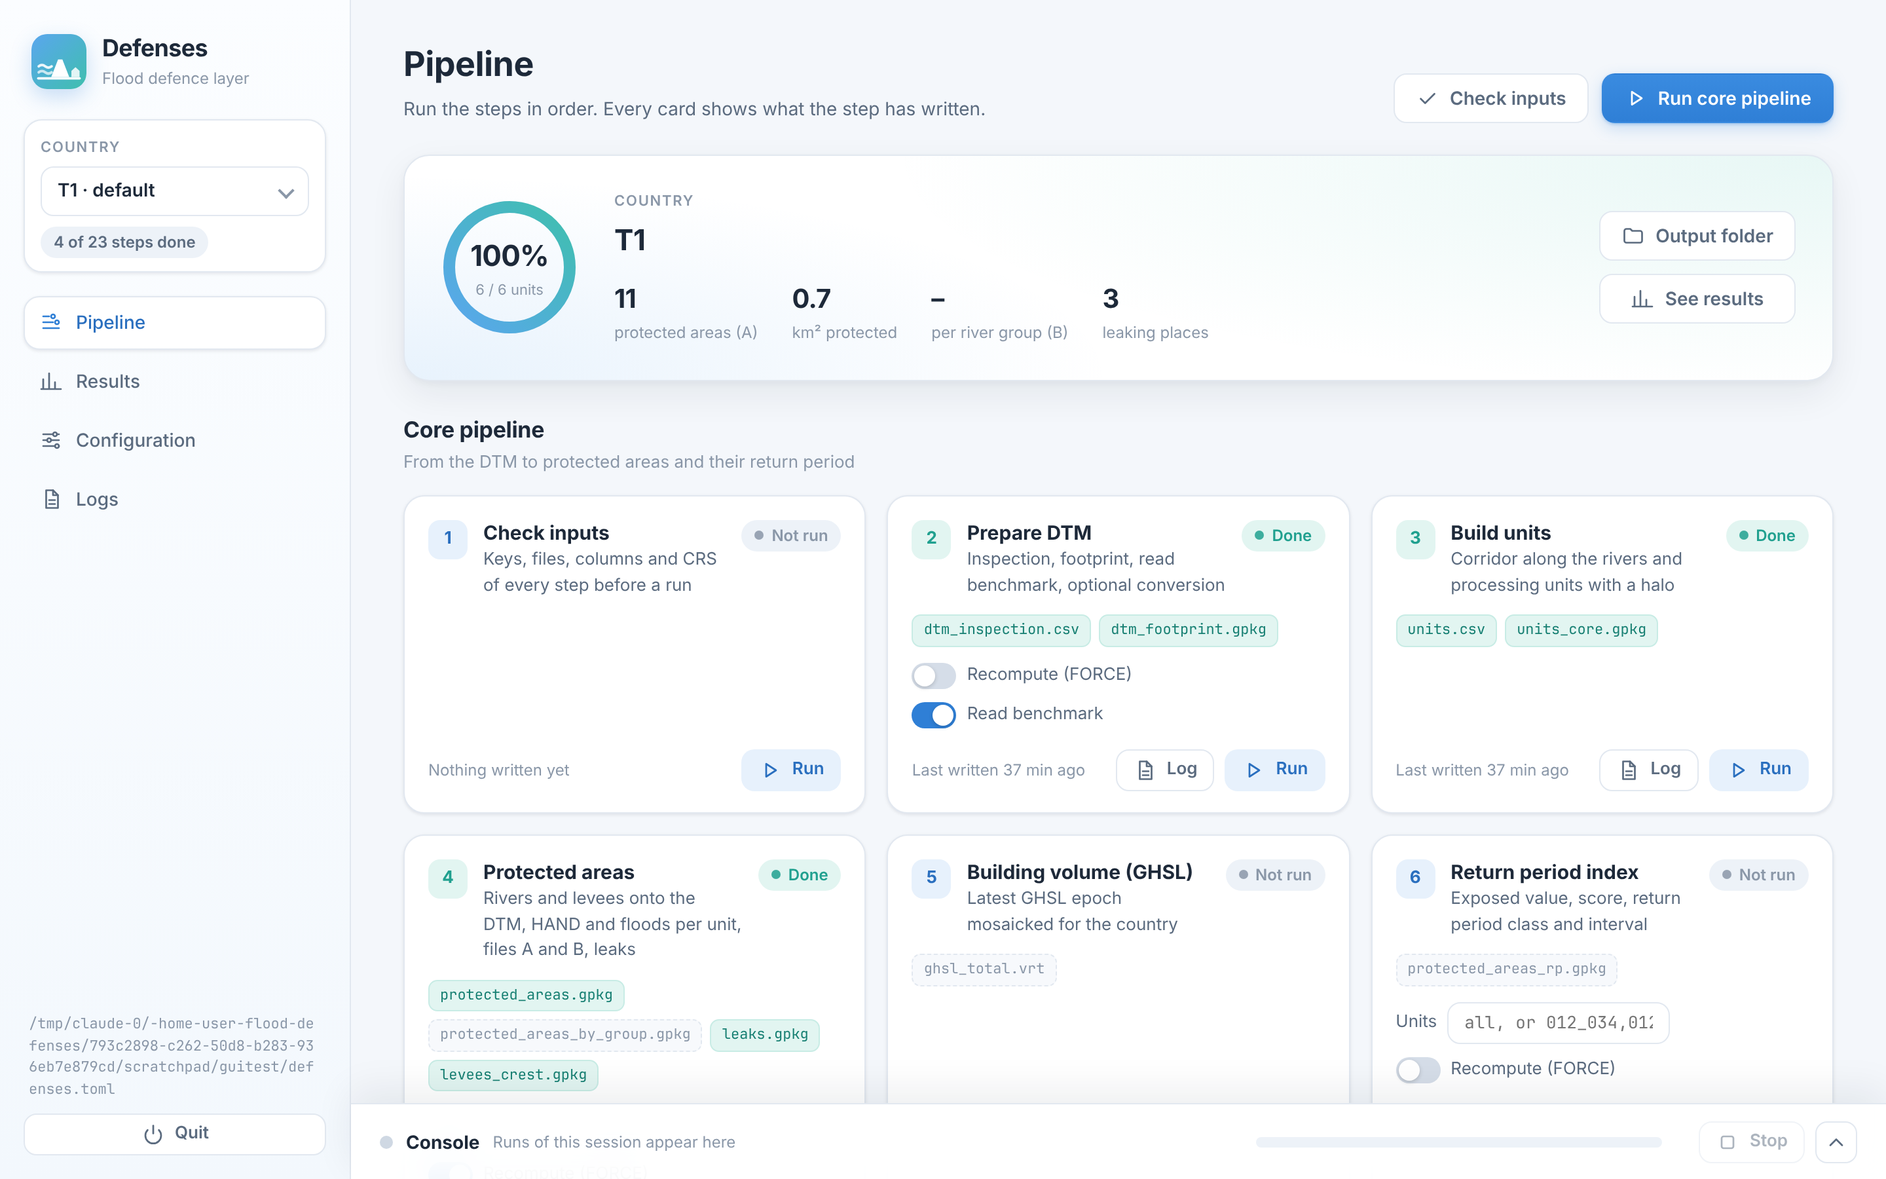
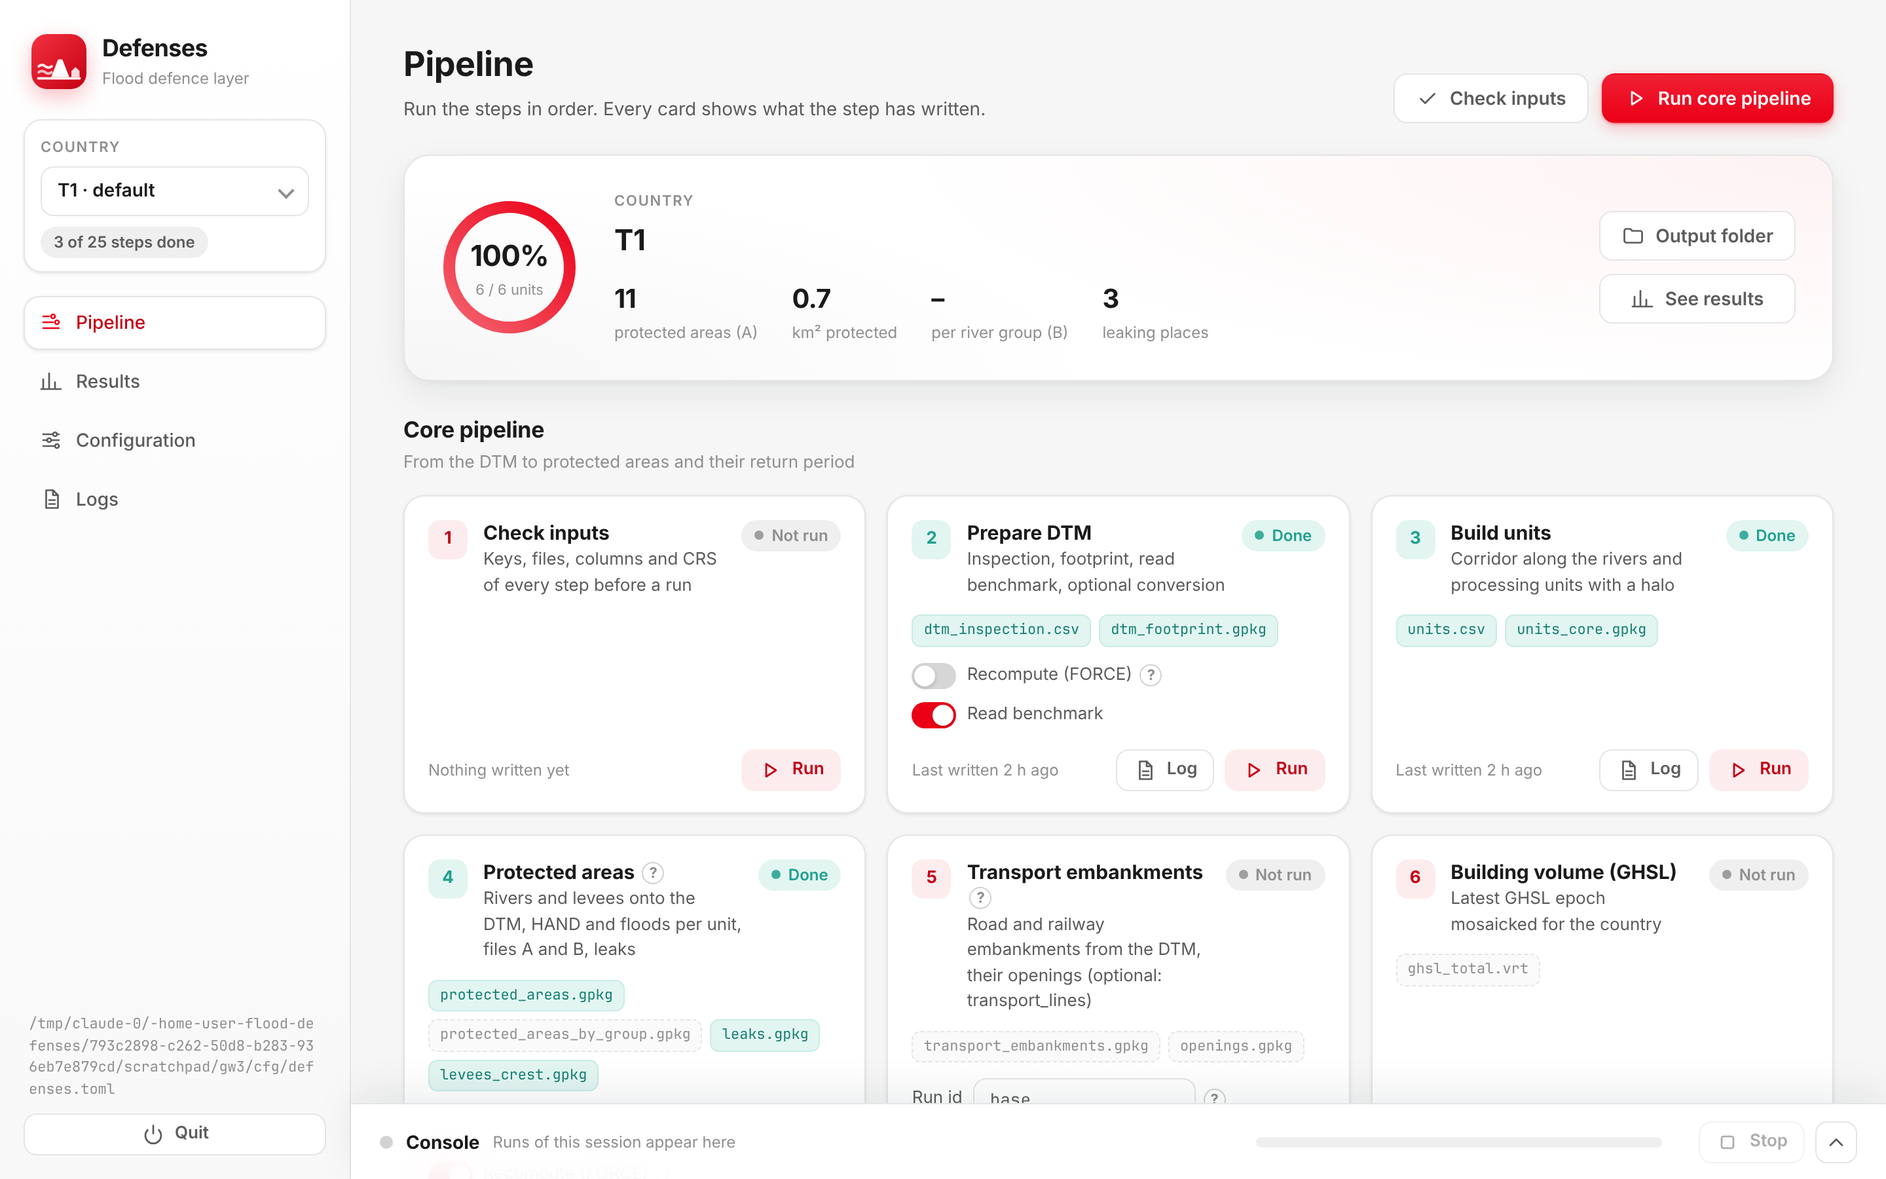
GUI in Aon colours: red accent, black, white and greys in light tints
Running status neutral (charcoal with a red dot), failures in dark maroon, so that the
brand red does not read as an error; logo recoloured; screenshots of the README updated.

diff --git a/gui/static/style.css b/gui/static/style.css
@@ -1,28 +1,28 @@
 /* Author: Jakub Zapletal */
 /* Date: 2026-11-12 */
-/* Style of the Defenses GUI: light, calm colours of water and land. */
+/* Style of the Defenses GUI: Aon colours (red #EB0017, black, white, greys) in light tints. */
 
 :root {
-  --bg: #f4f7fb;
-  --bg-2: #edf2f8;
+  --bg: #f6f6f6;
+  --bg-2: #efefef;
   --surface: #ffffff;
-  --surface-2: #f7f9fc;
-  --border: #e2e8f0;
-  --border-strong: #cfd8e3;
-  --text: #1d2939;
-  --text-2: #5b6b7f;
-  --text-3: #8a97a8;
-  --accent: #2f7fd6;
-  --accent-2: #2a6fbf;
-  --accent-soft: #e7f1fc;
+  --surface-2: #fafafa;
+  --border: #e5e5e5;
+  --border-strong: #d2d2d2;
+  --text: #1a1a1a;
+  --text-2: #5c5c5c;
+  --text-3: #8f8f8f;
+  --accent: #eb0017;
+  --accent-2: #c40014;
+  --accent-soft: #fdecee;
   --teal: #20a08f;
   --teal-soft: #e2f5f1;
   --amber: #c9861f;
   --amber-soft: #fcf3e2;
-  --coral: #d65a52;
-  --coral-soft: #fdecea;
-  --violet: #7a68d6;
-  --violet-soft: #efecfc;
+  --coral: #8a1220;
+  --coral-soft: #f6e3e5;
+  --violet: #5c5c5c;
+  --violet-soft: #efefef;
   --shadow-1: 0 1px 2px rgba(16, 24, 40, 0.04), 0 1px 3px rgba(16, 24, 40, 0.06);
   --shadow-2: 0 2px 6px rgba(16, 24, 40, 0.04), 0 10px 28px rgba(16, 24, 40, 0.07);
   --radius: 16px;
@@ -53,7 +53,7 @@ h1, h2, h3 { margin: 0; font-weight: 650; letter-spacing: -0.01em; }
   position: fixed; inset: 0 auto 0 0; width: var(--sidebar);
   display: flex; flex-direction: column; gap: 18px;
   padding: 22px 18px 18px;
-  background: linear-gradient(180deg, #fbfdff 0%, #f3f8fd 100%);
+  background: linear-gradient(180deg, #ffffff 0%, #f8f8f8 100%);
   border-right: 1px solid var(--border);
   z-index: 5;
 }
@@ -62,7 +62,7 @@ h1, h2, h3 { margin: 0; font-weight: 650; letter-spacing: -0.01em; }
   padding: 30px 40px calc(var(--console-h) + 40px);
 }
 .brand { display: flex; align-items: center; gap: 12px; padding: 2px 6px 4px; }
-.brand-logo { width: 42px; height: 42px; border-radius: 12px; box-shadow: 0 6px 16px rgba(47, 127, 214, 0.25); }
+.brand-logo { width: 42px; height: 42px; border-radius: 12px; box-shadow: 0 6px 16px rgba(235, 0, 23, 0.25); }
 .brand-name { font-size: 18px; font-weight: 700; letter-spacing: -0.02em; }
 .brand-sub { font-size: 12px; color: var(--text-3); }
 
@@ -80,7 +80,7 @@ h1, h2, h3 { margin: 0; font-weight: 650; letter-spacing: -0.01em; }
   color: var(--text-2); font-weight: 550;
   transition: background 0.15s, color 0.15s;
 }
-.nav a:hover { background: #eaf2fb; color: var(--text); }
+.nav a:hover { background: #fdf1f2; color: var(--text); }
 .nav a.active { background: var(--surface); color: var(--accent-2); box-shadow: var(--shadow-1); border: 1px solid var(--border); padding: 9px 11px; }
 .nav a.active .ico { color: var(--accent); }
 .sidebar-foot { margin-top: auto; display: flex; flex-direction: column; gap: 10px; }
@@ -106,10 +106,10 @@ h1, h2, h3 { margin: 0; font-weight: 650; letter-spacing: -0.01em; }
   white-space: nowrap;
 }
 .btn:active { transform: translateY(1px); }
-.btn.primary { background: linear-gradient(180deg, #3a8be0, var(--accent)); color: #fff; box-shadow: 0 1px 2px rgba(47, 127, 214, 0.3), 0 4px 12px rgba(47, 127, 214, 0.22); }
-.btn.primary:hover { background: linear-gradient(180deg, #3584d9, var(--accent-2)); }
+.btn.primary { background: linear-gradient(180deg, #f01f33, var(--accent)); color: #fff; box-shadow: 0 1px 2px rgba(235, 0, 23, 0.3), 0 4px 12px rgba(235, 0, 23, 0.22); }
+.btn.primary:hover { background: linear-gradient(180deg, #d90015, var(--accent-2)); }
 .btn.soft { background: var(--accent-soft); color: var(--accent-2); }
-.btn.soft:hover { background: #dbeafb; }
+.btn.soft:hover { background: #fbdfe2; }
 .btn.ghost { background: var(--surface); border-color: var(--border); color: var(--text-2); }
 .btn.ghost:hover { border-color: var(--border-strong); color: var(--text); }
 .btn.danger { background: var(--coral-soft); color: var(--coral); }
@@ -128,7 +128,9 @@ h1, h2, h3 { margin: 0; font-weight: 650; letter-spacing: -0.01em; }
 .chip::before { content: ""; width: 7px; height: 7px; border-radius: 50%; background: currentColor; opacity: 0.85; }
 .chip.plain::before { display: none; }
 .chip.done { background: var(--teal-soft); color: var(--teal); }
-.chip.running, .chip.stopping { background: var(--accent-soft); color: var(--accent); }
+/* running is neutral (charcoal with a red dot): red text would read as an error */
+.chip.running, .chip.stopping { background: #ededed; color: #262626; }
+.chip.running::before { background: var(--accent); opacity: 1; }
 .chip.running::before { animation: blink 1.2s infinite; }
 .chip.queued { background: var(--violet-soft); color: var(--violet); }
 .chip.failed { background: var(--coral-soft); color: var(--coral); }
@@ -151,8 +153,8 @@ h1, h2, h3 { margin: 0; font-weight: 650; letter-spacing: -0.01em; }
   display: grid; grid-template-columns: auto 1fr auto; align-items: center; gap: 28px;
   padding: 26px 28px; border-radius: 20px;
   background:
-    radial-gradient(1200px 300px at 100% 0%, rgba(63, 191, 174, 0.12), transparent 60%),
-    radial-gradient(900px 260px at 0% 100%, rgba(90, 166, 238, 0.14), transparent 60%),
+    radial-gradient(1200px 300px at 100% 0%, rgba(235, 0, 23, 0.05), transparent 60%),
+    radial-gradient(900px 260px at 0% 100%, rgba(0, 0, 0, 0.035), transparent 60%),
     var(--surface);
   border: 1px solid var(--border); box-shadow: var(--shadow-2);
 }
@@ -177,7 +179,7 @@ h1, h2, h3 { margin: 0; font-weight: 650; letter-spacing: -0.01em; }
   transition: box-shadow 0.2s, border-color 0.2s, transform 0.2s;
 }
 .step:hover { box-shadow: var(--shadow-2); border-color: var(--border-strong); }
-.step.is-running { border-color: #b9d6f5; box-shadow: 0 0 0 3px rgba(47, 127, 214, 0.1), var(--shadow-2); }
+.step.is-running { border-color: #f5b8be; box-shadow: 0 0 0 3px rgba(235, 0, 23, 0.1), var(--shadow-2); }
 .step-head { display: flex; align-items: flex-start; gap: 12px; }
 .step-num {
   flex: none; width: 30px; height: 30px; border-radius: 9px;
@@ -210,7 +212,7 @@ h1, h2, h3 { margin: 0; font-weight: 650; letter-spacing: -0.01em; }
   transition: border-color 0.15s, box-shadow 0.15s;
 }
 .input.small { height: 32px; font-size: 13px; }
-.input:focus, select:focus, textarea:focus { border-color: #9cc4ef; box-shadow: 0 0 0 3px rgba(47, 127, 214, 0.12); }
+.input:focus, select:focus, textarea:focus { border-color: #f3a3ab; box-shadow: 0 0 0 3px rgba(235, 0, 23, 0.12); }
 .mono { font-family: var(--mono); font-size: 12.5px; }
 .select-wrap { position: relative; }
 select { appearance: none; padding-right: 34px; cursor: pointer; font-weight: 600; }
@@ -221,7 +223,7 @@ select { appearance: none; padding-right: 34px; cursor: pointer; font-weight: 60
 textarea { height: auto; padding: 14px 16px; resize: vertical; line-height: 1.6; }
 .switch { display: inline-flex; align-items: center; gap: 8px; cursor: pointer; font-size: 13px; color: var(--text-2); user-select: none; }
 .switch input { display: none; }
-.switch .track { width: 34px; height: 20px; border-radius: 999px; background: #d5dde8; position: relative; transition: background 0.15s; }
+.switch .track { width: 34px; height: 20px; border-radius: 999px; background: #d6d6d6; position: relative; transition: background 0.15s; }
 .switch .track::after { content: ""; position: absolute; top: 2px; left: 2px; width: 16px; height: 16px; border-radius: 50%; background: #fff; box-shadow: 0 1px 3px rgba(0, 0, 0, 0.18); transition: transform 0.18s; }
 .switch input:checked + .track { background: var(--accent); }
 .switch input:checked + .track::after { transform: translateX(14px); }
@@ -257,13 +259,13 @@ textarea { height: auto; padding: 14px 16px; resize: vertical; line-height: 1.6;
 .bar-row .name b { display: block; font-size: 13px; }
 .bar-row .name span { font-size: 12px; color: var(--text-3); }
 .track-h { height: 10px; border-radius: 999px; background: var(--bg-2); overflow: hidden; }
-.track-h span { display: block; height: 100%; border-radius: 999px; background: linear-gradient(90deg, #6fb2f1, var(--accent)); }
+.track-h span { display: block; height: 100%; border-radius: 999px; background: linear-gradient(90deg, #f4636f, var(--accent)); }
 .bar-row .num { text-align: right; font-variant-numeric: tabular-nums; color: var(--text-2); font-size: 13px; }
 .table { width: 100%; border-collapse: separate; border-spacing: 0; font-size: 13px; }
 .table th { text-align: left; font-size: 11.5px; font-weight: 600; color: var(--text-3); text-transform: uppercase; letter-spacing: 0.05em; padding: 10px 12px; border-bottom: 1px solid var(--border); background: var(--surface-2); }
-.table td { padding: 10px 12px; border-bottom: 1px solid #eef2f7; font-variant-numeric: tabular-nums; }
+.table td { padding: 10px 12px; border-bottom: 1px solid #efefef; font-variant-numeric: tabular-nums; }
 .table tr:last-child td { border-bottom: 0; }
-.table tr:hover td { background: #f8fbfe; }
+.table tr:hover td { background: #fdf8f8; }
 .table .num { text-align: right; }
 .table-wrap { overflow: auto; border-radius: var(--radius); }
 .overview { width: 100%; border-radius: 12px; border: 1px solid var(--border); display: block; background: var(--surface-2); }
@@ -271,11 +273,11 @@ textarea { height: auto; padding: 14px 16px; resize: vertical; line-height: 1.6;
 
 /* --- Empty states and banners --- */
 .empty { text-align: center; padding: 46px 20px; color: var(--text-2); }
-.empty .ico { width: 44px; height: 44px; color: #a9c7e8; margin-bottom: 10px; }
+.empty .ico { width: 44px; height: 44px; color: #ecbcc1; margin-bottom: 10px; }
 .empty h3 { font-size: 16px; color: var(--text); margin-bottom: 4px; }
 .banner { display: flex; gap: 12px; align-items: flex-start; padding: 14px 16px; border-radius: 14px; margin-bottom: 18px; font-size: 13.5px; }
 .banner.warn { background: var(--amber-soft); color: #8a5a12; border: 1px solid #f3dfb6; }
-.banner.err { background: var(--coral-soft); color: #9b3631; border: 1px solid #f5cfcb; }
+.banner.err { background: var(--coral-soft); color: #7a0f1b; border: 1px solid #e9c3c7; }
 .banner .ico { margin-top: 1px; }
 
 /* --- Logs --- */
@@ -289,9 +291,9 @@ textarea { height: auto; padding: 14px 16px; resize: vertical; line-height: 1.6;
 .viewer { display: flex; flex-direction: column; min-width: 0; }
 .viewer-head { display: flex; align-items: center; gap: 10px; padding: 12px 14px; border-bottom: 1px solid var(--border); flex-wrap: wrap; }
 .viewer-head .input { max-width: 260px; margin-left: auto; }
-.viewer pre { margin: 0; padding: 14px 16px; max-height: 64vh; overflow: auto; font-family: var(--mono); font-size: 12px; line-height: 1.65; white-space: pre-wrap; word-break: break-word; color: #3b4859; }
+.viewer pre { margin: 0; padding: 14px 16px; max-height: 64vh; overflow: auto; font-family: var(--mono); font-size: 12px; line-height: 1.65; white-space: pre-wrap; word-break: break-word; color: #3a3a3a; }
 .ln-warn { color: #9a6514; background: #fff8e8; display: block; }
-.ln-err { color: #a33a33; background: #fff0ee; display: block; }
+.ln-err { color: #8a1220; background: #f9eced; display: block; }
 .ln-info { display: block; }
 mark { background: #fff1a8; border-radius: 3px; }
 
@@ -310,17 +312,17 @@ body.console-open .main { padding-bottom: calc(44vh + 30px); }
 .console-title strong { white-space: nowrap; overflow: hidden; text-overflow: ellipsis; }
 .console-meta { font-size: 12px; color: var(--text-3); white-space: nowrap; }
 .pulse { width: 10px; height: 10px; border-radius: 50%; background: var(--border-strong); flex: none; }
-.pulse.on { background: var(--accent); box-shadow: 0 0 0 0 rgba(47, 127, 214, 0.5); animation: ping 1.6s infinite; }
-@keyframes ping { 70% { box-shadow: 0 0 0 9px rgba(47, 127, 214, 0); } 100% { box-shadow: 0 0 0 0 rgba(47, 127, 214, 0); } }
+.pulse.on { background: var(--accent); box-shadow: 0 0 0 0 rgba(235, 0, 23, 0.5); animation: ping 1.6s infinite; }
+@keyframes ping { 70% { box-shadow: 0 0 0 9px rgba(235, 0, 23, 0); } 100% { box-shadow: 0 0 0 0 rgba(235, 0, 23, 0); } }
 .console-progress { display: flex; align-items: center; gap: 10px; font-size: 12px; color: var(--text-3); font-variant-numeric: tabular-nums; }
 .console-progress .bar { flex: 1; height: 8px; border-radius: 999px; background: var(--bg-2); overflow: hidden; }
-.console-progress .bar span { display: block; height: 100%; width: 0; border-radius: 999px; background: linear-gradient(90deg, #6fb2f1, var(--accent)); transition: width 0.4s ease; }
+.console-progress .bar span { display: block; height: 100%; width: 0; border-radius: 999px; background: linear-gradient(90deg, #f4636f, var(--accent)); transition: width 0.4s ease; }
 .console-actions { display: flex; align-items: center; gap: 8px; }
 /* progress of the running step on its card; .indet = a moving bar while no counts are known */
 .card-progress { display: flex; align-items: center; gap: 10px; font-size: 12px; color: var(--accent-2); font-variant-numeric: tabular-nums; }
 .card-progress[hidden] { display: none; }
 .pbar { flex: 1; height: 8px; border-radius: 999px; background: var(--accent-soft); overflow: hidden; position: relative; }
-.pbar span, .console-progress .bar span { display: block; height: 100%; border-radius: 999px; background: linear-gradient(90deg, #6fb2f1, var(--accent)); transition: width 0.4s ease; }
+.pbar span, .console-progress .bar span { display: block; height: 100%; border-radius: 999px; background: linear-gradient(90deg, #f4636f, var(--accent)); transition: width 0.4s ease; }
 .pbar.indet span, .console-progress .bar.indet span { width: 35% !important; animation: indet 1.3s ease-in-out infinite; }
 @keyframes indet { 0% { transform: translateX(-100%); } 100% { transform: translateX(290%); } }
 .console-actions .ico[data-icon="chevron"] svg { transition: transform 0.2s; }
@@ -332,24 +334,24 @@ body.console-open .main { padding-bottom: calc(44vh + 30px); }
 .q-item.active { background: var(--accent-soft); }
 .q-item b { font-size: 13px; font-weight: 600; white-space: nowrap; overflow: hidden; text-overflow: ellipsis; }
 .q-item span.t { font-size: 11.5px; color: var(--text-3); grid-column: 1 / -1; }
-.console .log { margin: 0; padding: 12px 18px; overflow: auto; font-family: var(--mono); font-size: 12px; line-height: 1.6; color: #3b4859; background: #fbfcfe; white-space: pre-wrap; word-break: break-word; }
+.console .log { margin: 0; padding: 12px 18px; overflow: auto; font-family: var(--mono); font-size: 12px; line-height: 1.6; color: #3a3a3a; background: #fcfcfc; white-space: pre-wrap; word-break: break-word; }
 
 /* --- Toast --- */
 .toast {
   position: fixed; right: 28px; top: 24px; z-index: 20;
-  padding: 12px 16px; border-radius: 12px; background: #1f2a37; color: #fff; font-size: 13px;
+  padding: 12px 16px; border-radius: 12px; background: #1a1a1a; color: #fff; font-size: 13px;
   box-shadow: var(--shadow-2); opacity: 0; transform: translateY(-8px); pointer-events: none;
   transition: opacity 0.2s, transform 0.2s; max-width: 420px;
 }
 .toast.show { opacity: 1; transform: none; }
-.toast.err { background: #b2443d; }
+.toast.err { background: #8a1220; }
 
 .save-bar {
   position: sticky; bottom: calc(var(--console-h) + 16px); z-index: 4;
   display: flex; align-items: center; justify-content: space-between; gap: 12px;
-  padding: 12px 16px; border-radius: 14px; background: #1f2a37; color: #fff; box-shadow: var(--shadow-2);
+  padding: 12px 16px; border-radius: 14px; background: #1a1a1a; color: #fff; box-shadow: var(--shadow-2);
 }
-.save-bar .btn.ghost { background: transparent; color: #d7e1ec; border-color: #44546a; }
+.save-bar .btn.ghost { background: transparent; color: #dedede; border-color: #4d4d4d; }
 
 @media (max-width: 1100px) {
   .grid-3 { grid-template-columns: repeat(2, minmax(0, 1fr)); }
@@ -366,13 +368,13 @@ body.console-open .main { padding-bottom: calc(44vh + 30px); }
   border: 1px solid var(--border-strong); background: var(--surface); color: var(--text-3);
   font-size: 11px; font-weight: 700; line-height: 1; cursor: pointer; flex: none;
 }
-.help:hover, .help:focus-visible { color: var(--accent); border-color: #9cc4ef; background: var(--accent-soft); outline: none; }
+.help:hover, .help:focus-visible { color: var(--accent); border-color: #f3a3ab; background: var(--accent-soft); outline: none; }
 .tile .k .help { text-transform: none; letter-spacing: 0; }
 .step-title .help { margin-left: 2px; }
 .opt-pair { display: inline-flex; align-items: center; }
 .help-pop {
   position: fixed; z-index: 30; padding: 12px 14px; border-radius: 12px;
-  background: #1f2a37; color: #f2f5f9; font-size: 12.5px; line-height: 1.5;
+  background: #1a1a1a; color: #f4f4f4; font-size: 12.5px; line-height: 1.5;
   box-shadow: 0 10px 30px rgba(16, 24, 40, 0.18); opacity: 0; pointer-events: none;
   transform: translateY(4px); transition: opacity 0.15s, transform 0.15s;
 }

diff --git a/gui/static/app.js b/gui/static/app.js
@@ -284,9 +284,9 @@ async function runCore() {
 }
 function ring(done, total) {
   const r = 46, c = 2 * Math.PI * r, frac = total ? done / total : 0;
-  return `<div class="ring"><svg viewBox="0 0 104 104"><circle cx="52" cy="52" r="${r}" fill="none" stroke="#e9eef5" stroke-width="9"/>
+  return `<div class="ring"><svg viewBox="0 0 104 104"><circle cx="52" cy="52" r="${r}" fill="none" stroke="#ececec" stroke-width="9"/>
     <circle cx="52" cy="52" r="${r}" fill="none" stroke="url(#rg)" stroke-width="9" stroke-linecap="round" stroke-dasharray="${c}" stroke-dashoffset="${c * (1 - frac)}"/>
-    <defs><linearGradient id="rg" x1="0" y1="0" x2="1" y2="1"><stop offset="0" stop-color="#5aa6ee"/><stop offset="1" stop-color="#3fbfae"/></linearGradient></defs></svg>
+    <defs><linearGradient id="rg" x1="0" y1="0" x2="1" y2="1"><stop offset="0" stop-color="#f4636f"/><stop offset="1" stop-color="#eb0017"/></linearGradient></defs></svg>
     <div class="val"><b>${total ? Math.round(100 * frac) : 0}%</b><span>${total ? `${done} / ${total} units` : "no units yet"}</span></div></div>`;
 }
 async function renderPipeline() {
@@ -531,10 +531,10 @@ async function renderResults() {
   const perf = r.performance || {};
   const tiles = [
     ["shield", "Protected areas · A", r.protected ? num(r.protected.count) : "–", r.protected ? `${num(r.protected.area_km2, 1)} km² · median level ${num(r.protected.level_median_m, 2)} m` : "not computed yet", "#e2f5f1"],
-    ["wave", "Per river group · B", r.by_group ? num(r.by_group.count) : "–", r.by_group ? `${num(r.by_group.groups)} groups · ${num(r.by_group.area_km2, 1)} km²` : "needs the upstream area column", "#e7f1fc", "tile_b"],
+    ["wave", "Per river group · B", r.by_group ? num(r.by_group.count) : "–", r.by_group ? `${num(r.by_group.groups)} groups · ${num(r.by_group.area_km2, 1)} km²` : "needs the upstream area column", "#fdecee", "tile_b"],
     ["alert", "Leaking places", r.leaks ? num(r.leaks.count) : "–", r.leaks ? `${num(r.leaks.by_cause.reduce((a, b) => a + b.km, 0), 1)} km of levee protect nothing` : "not computed yet", "#fcf3e2", "tile_leaks"],
-    ["layers", "Levee lines", r.levees ? num(r.levees.lines) : "–", r.levees ? `${num(r.levees.moved)} moved onto the crest · ${num(r.levees.no_ridge)} without a ridge` : "not computed yet", "#efecfc"],
-    ["grid", "Units", r.units ? `${num(r.units.done)}<small>/ ${num(r.units.total)}</small>` : "–", r.units ? (r.units.done === r.units.total ? "all finished" : `${num(r.units.total - r.units.done)} remaining`) : "run Build units", "#e7f1fc"],
+    ["layers", "Levee lines", r.levees ? num(r.levees.lines) : "–", r.levees ? `${num(r.levees.moved)} moved onto the crest · ${num(r.levees.no_ridge)} without a ridge` : "not computed yet", "#efefef"],
+    ["grid", "Units", r.units ? `${num(r.units.done)}<small>/ ${num(r.units.total)}</small>` : "–", r.units ? (r.units.done === r.units.total ? "all finished" : `${num(r.units.total - r.units.done)} remaining`) : "run Build units", "#fdecee"],
     ["gauge", "Speed", perf.seconds_per_domain_cell ? `${num(perf.seconds_per_domain_cell * 1e6, 2)}<small>µs/cell</small>` : "–", perf.country_seconds ? `whole country about ${duration(perf.country_seconds)}` : "after the first units", "#e2f5f1", "tile_speed"],
   ].map(([ic, k, v, d, tone, hk]) => `<div class="tile" style="--tone:${tone}"><div class="k">${esc(k)}${help(hk)}</div><div class="v">${v}</div><div class="d">${esc(d)}</div></div>`).join("");
   const maxKm = r.leaks ? Math.max(...r.leaks.by_cause.map((c) => c.km), 0.001) : 1;
